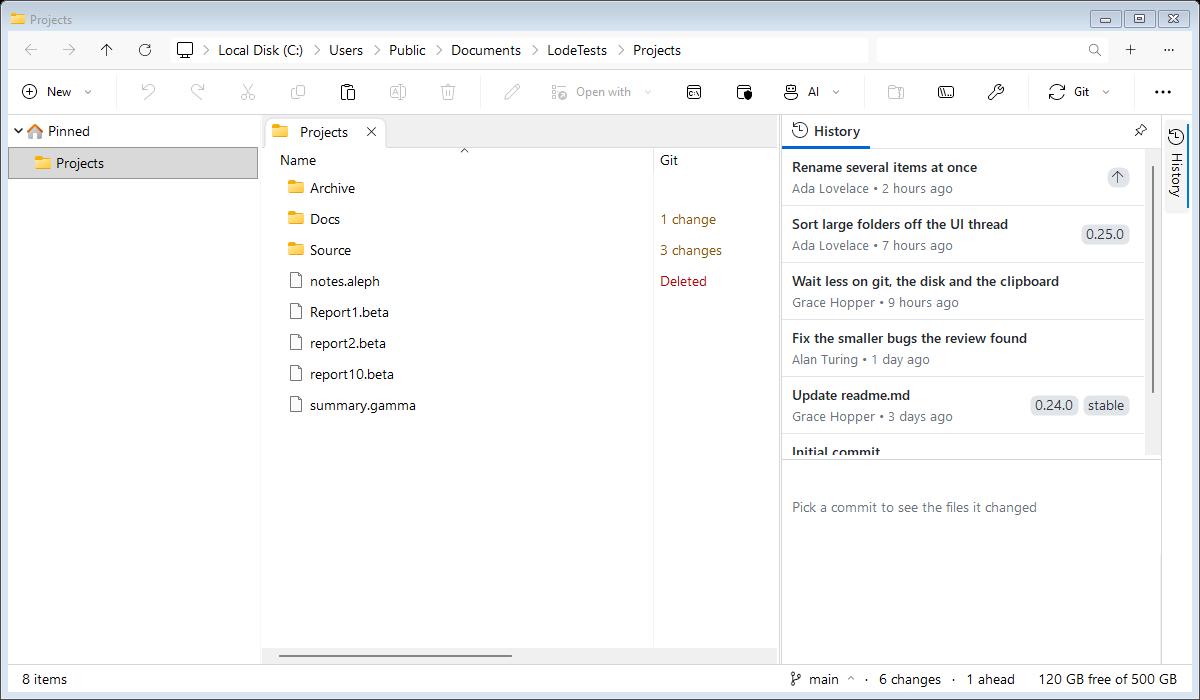
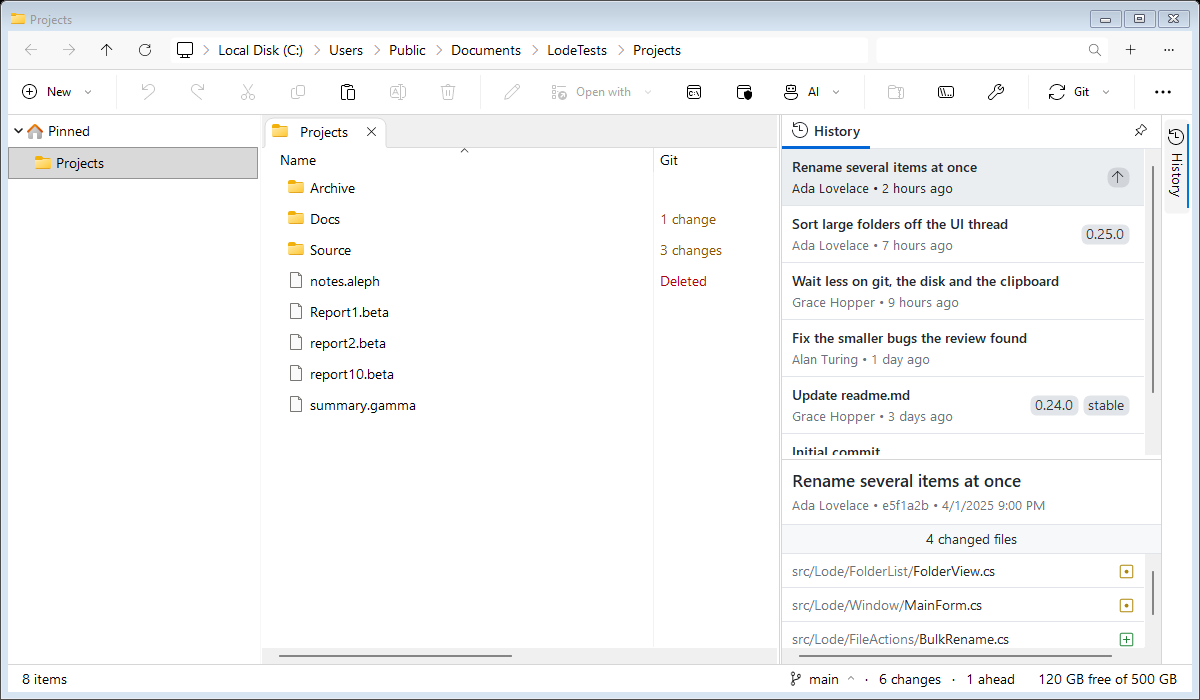
History picks the newest commit as its commits show, with the files it changed under it, where it said Pick a commit until one was clicked, and picks the newest in place of a picked commit that is gone once they are read again, as an amended one is. Clicking the picked commit to pick none still leav

diff --git a/src/Lode.Tests/GitPanes/GitPanesTests.cs b/src/Lode.Tests/GitPanes/GitPanesTests.cs
@@ -431,6 +431,157 @@ public class GitPanesTests
         await Assert.That(list.SelectedIndices.Cast<int>().ToList()).IsEquivalentTo([3]);
     }
 
+    // The newest commit is picked as the commits show, with its files under it; once the picked
+    // commit is clicked again to pick none, reading the commits again leaves none picked.
+    [Test]
+    public async Task NewestCommitPicked()
+    {
+        using var stubs = new PaneStubs();
+        using var fixture = Repositories();
+        var settings = new Settings
+        {
+            CodeDirectory = fixture.Root
+        };
+        settings.SetPinnedPanes(fixture.At("Docs"), false, true);
+        using var form = await Show(fixture.At("Docs"), settings);
+        await PaneStubs.Settled(form);
+        var pane = form.GitPanes.HistoryPane;
+        var list = pane.CommitList;
+        await Assert.That(list.SelectedIndices.Cast<int>().ToList()).IsEquivalentTo([0]);
+        await Assert.That(pane.FileList.VirtualListSize).IsEqualTo(PaneStubs.CommitFiles.Count);
+
+        Click(list, 0);
+        PumpFor(TimeSpan.FromMilliseconds(SystemInformation.DoubleClickTime * 2 + 200));
+        await Assert.That(list.SelectedIndices.Count).IsEqualTo(0);
+
+        pane.Reload();
+        await PaneStubs.Settled(form);
+        await Assert.That(list.SelectedIndices.Count).IsEqualTo(0);
+        await Assert.That(pane.FileList.VirtualListSize).IsEqualTo(0);
+    }
+
+    // A commit picked that is gone once the commits are read again, as an amended one is, gives
+    // way to the newest, with its files.
+    [Test]
+    public async Task PickedCommitGoneNewestPicked()
+    {
+        using var stubs = new PaneStubs();
+        var history = PaneStubs.History.ToList();
+        HistoryPane.ReadCommits = (_, skip, count, _) => history.Skip(skip).Take(count).ToList();
+        using var fixture = Repositories();
+        var settings = new Settings
+        {
+            CodeDirectory = fixture.Root
+        };
+        settings.SetPinnedPanes(fixture.At("Docs"), false, true);
+        using var form = await Show(fixture.At("Docs"), settings);
+        await PaneStubs.Settled(form);
+        var pane = form.GitPanes.HistoryPane;
+        var list = pane.CommitList;
+        list.SelectedIndices.Add(2);
+        await PaneStubs.Settled(form);
+        await Assert.That(list.SelectedIndices.Cast<int>().ToList()).IsEquivalentTo([2]);
+
+        history.RemoveAt(2);
+        pane.Reload();
+        await PaneStubs.Settled(form);
+        await Assert.That(list.SelectedIndices.Cast<int>().ToList()).IsEquivalentTo([0]);
+        await Assert.That(pane.FileList.VirtualListSize).IsEqualTo(PaneStubs.CommitFiles.Count);
+    }
+
+    // No commit picked, by clicking the picked one again, holds for that repository only: in
+    // another, the newest is picked.
+    [Test]
+    public async Task OtherRepoNewestPicked()
+    {
+        using var stubs = new PaneStubs();
+        using var fixture = Repositories();
+        var settings = new Settings
+        {
+            CodeDirectory = fixture.Root
+        };
+        settings.SetPinnedPanes(fixture.At("Docs"), false, true);
+        using var form = await Show(fixture.At("Docs"), settings);
+        await PaneStubs.Settled(form);
+        var pane = form.GitPanes.HistoryPane;
+        var list = pane.CommitList;
+        Click(list, 0);
+        PumpFor(TimeSpan.FromMilliseconds(SystemInformation.DoubleClickTime * 2 + 200));
+        await Assert.That(list.SelectedIndices.Count).IsEqualTo(0);
+
+        pane.Bind(fixture.At("Source"));
+        await PaneStubs.Settled(form);
+        await Assert.That(list.SelectedIndices.Cast<int>().ToList()).IsEquivalentTo([0]);
+        await Assert.That(pane.FileList.VirtualListSize).IsEqualTo(PaneStubs.CommitFiles.Count);
+    }
+
+    // The files a commit changed, scrolled down when the commit is clicked again to pick none,
+    // show from their top once it is picked again.
+    [Test]
+    public async Task FilesFromTopAfterNone()
+    {
+        using var stubs = new PaneStubs();
+        var many = Enumerable.Range(0, 40)
+            .Select(_ => new Change($"src/file{_:00}.cs", null, GitChange.Modified))
+            .ToList();
+        HistoryPane.ReadFiles = (_, _, _) => many;
+        using var fixture = Repositories();
+        var settings = new Settings
+        {
+            CodeDirectory = fixture.Root
+        };
+        settings.SetPinnedPanes(fixture.At("Docs"), false, true);
+        using var form = await Show(fixture.At("Docs"), settings);
+        await PaneStubs.Settled(form);
+        var pane = form.GitPanes.HistoryPane;
+        var commits = pane.CommitList;
+        var files = pane.FileList;
+        await Assert.That(files.VirtualListSize).IsEqualTo(many.Count);
+        files.TopItem = files.Items[10];
+        await Assert.That(files.TopItem?.Index).IsEqualTo(10);
+
+        Click(commits, 0);
+        PumpFor(TimeSpan.FromMilliseconds(SystemInformation.DoubleClickTime * 2 + 200));
+        await Assert.That(files.VirtualListSize).IsEqualTo(0);
+
+        Click(commits, 0);
+        await PaneStubs.Settled(form);
+        await Assert.That(files.VirtualListSize).IsEqualTo(many.Count);
+        await Assert.That(files.GetItemRect(0).Top).IsEqualTo(0);
+        await Assert.That(files.TopItem?.Index).IsEqualTo(0);
+    }
+
+    // A list scrolled down that loses all its rows, as the commits do in a folder outside a
+    // repository, shows them from its top once it has them again, not as far down as it had been
+    // scrolled, with nothing above them.
+    [Test]
+    public async Task RowsFromTopAfterNone()
+    {
+        using var stubs = new PaneStubs();
+        var history = Enumerable.Range(0, 40)
+            .Select(_ => new GitCommit($"{_:x40}", ["0000000000000000000000000000000000000000"], "Ada Lovelace", PaneStubs.Now, [], $"Commit {_}"))
+            .ToList();
+        HistoryPane.ReadCommits = (_, skip, count, _) => history.Skip(skip).Take(count).ToList();
+        using var fixture = Repositories();
+        var settings = new Settings
+        {
+            CodeDirectory = fixture.Root
+        };
+        settings.SetPinnedPanes(fixture.At("Docs"), false, true);
+        using var form = await Show(fixture.At("Docs"), settings);
+        await PaneStubs.Settled(form);
+        var pane = form.GitPanes.HistoryPane;
+        var list = pane.CommitList;
+        list.TopItem = list.Items[10];
+        await Assert.That(list.TopItem?.Index).IsEqualTo(10);
+
+        pane.Bind(null);
+        pane.Bind(fixture.At("Docs"));
+        await PaneStubs.Settled(form);
+        await Assert.That(list.GetItemRect(0).Top).IsEqualTo(0);
+        await Assert.That(list.TopItem?.Index).IsEqualTo(0);
+    }
+
     // A click as Windows sends one: the button up waiting in the queue, for the list, which
     // doesn't come back from the press until the button is up, to find.
     static void Click(RowList list, int index)

diff --git a/src/Lode/GitPanes/HistoryPane.cs b/src/Lode/GitPanes/HistoryPane.cs
@@ -39,6 +39,9 @@ sealed class HistoryPane : UserControl
     int version;
     int filesVersion;
     GitCommit? selected;
+
+    // The picked commit was clicked again to pick none, so the newest isn't picked in its place.
+    bool unpicked;
     List<Change> changed = [];
 
     /// <summary>
@@ -186,6 +189,7 @@ sealed class HistoryPane : UserControl
         unpushed = [];
         more = false;
         selected = null;
+        unpicked = false;
         changed = [];
         commits.SetRows(0);
         files.SetRows(0);
@@ -333,7 +337,8 @@ sealed class HistoryPane : UserControl
         }
     }
 
-    // The commits as read, the one picked before picked again, by its sha, where it still is.
+    // The commits as read, the one picked before picked again, by its sha, where it still is,
+    // and otherwise the newest, unless none was picked by clicking the picked one again.
     void ShowCommits()
     {
         var keep = selected?.Sha;
@@ -354,6 +359,13 @@ sealed class HistoryPane : UserControl
         if (keep != null)
         {
             index = loaded.FindIndex(_ => _.Sha == keep);
+        }
+
+        if (index < 0 &&
+            !unpicked &&
+            loaded.Count > 0)
+        {
+            index = 0;
         }
 
         commits.EndUpdate();
@@ -393,6 +405,7 @@ sealed class HistoryPane : UserControl
             return;
         }
 
+        unpicked = false;
         var commit = loaded[index];
         if (selected?.Sha == commit.Sha &&
             files.VirtualListSize == changed.Count &&
@@ -414,6 +427,7 @@ sealed class HistoryPane : UserControl
     {
         filesVersion++;
         selected = null;
+        unpicked = true;
         changed = [];
         files.SetRows(0);
         heading.Invalidate();

diff --git a/src/Lode/GitPanes/PaneParts.cs b/src/Lode/GitPanes/PaneParts.cs
@@ -354,6 +354,16 @@ sealed class RowList : ListView
     /// </summary>
     public void SetRows(int count)
     {
+        // Back at the top before every row goes: a list scrolled down that loses them all is left
+        // as far above its first row as it was below it, its scrollbar at the top, and once it has
+        // rows again draws them that far down, or past the bottom, with nothing above them.
+        if (count == 0 &&
+            VirtualListSize > 0 &&
+            IsHandleCreated)
+        {
+            EnsureVisible(0);
+        }
+
         VirtualListSize = count;
         FitColumn();
     }
